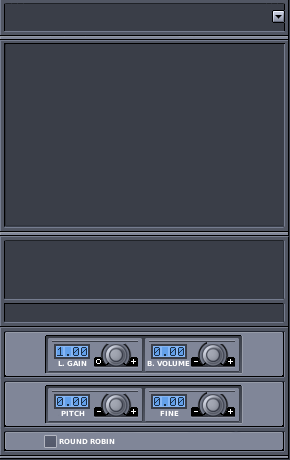
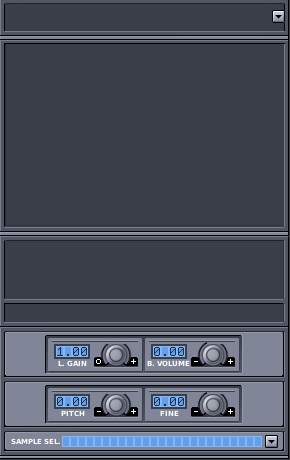
Sample Selection is now a enumeration

Changed region(s): [[0.031, 0.9435, 0.9621, 0.9739]]

diff --git a/src/core/src/sampler/sampler.cpp b/src/core/src/sampler/sampler.cpp
@@ -258,60 +258,63 @@ unsigned Sampler::__render_note( Note* pNote, unsigned nBufferSize, Song* pSong 
 
         // scelgo il sample da usare in base alla velocity
         Sample *pSample = NULL;
-		if( !pInstr->is_round_robin() ) {
-			for ( unsigned nLayer = 0; nLayer < MAX_LAYERS; ++nLayer ) {
-				InstrumentLayer *pLayer = pCompo->get_layer( nLayer );
-				if ( pLayer == NULL ) continue;
+		switch ( pInstr->sample_selection_alg() ) {
+			case Instrument::VELOCITY:
+				for ( unsigned nLayer = 0; nLayer < MAX_LAYERS; ++nLayer ) {
+					InstrumentLayer *pLayer = pCompo->get_layer( nLayer );
+					if ( pLayer == NULL ) continue;
 
-				if ( ( pNote->get_velocity() >= pLayer->get_start_velocity() ) && ( pNote->get_velocity() <= pLayer->get_end_velocity() ) ) {
+					if ( ( pNote->get_velocity() >= pLayer->get_start_velocity() ) && ( pNote->get_velocity() <= pLayer->get_end_velocity() ) ) {
+						pSample = pLayer->get_sample();
+						fLayerGain = pLayer->get_gain();
+						fLayerPitch = pLayer->get_pitch();
+						break;
+					}
+				}
+				break;
+
+			case Instrument::RANDOM:
+				if( pNote->get_sample_selected( pCompo->get_drumkit_componentID() ) != -1 ) {
+					InstrumentLayer *pLayer = pCompo->get_layer( pNote->get_sample_selected( pCompo->get_drumkit_componentID() ) );
+
 					pSample = pLayer->get_sample();
 					fLayerGain = pLayer->get_gain();
 					fLayerPitch = pLayer->get_pitch();
-					break;
 				}
-			}
-        }
-		else {
-			if( pNote->get_sample_selected( pCompo->get_drumkit_componentID() ) != -1 ) {
-				InstrumentLayer *pLayer = pCompo->get_layer( pNote->get_sample_selected( pCompo->get_drumkit_componentID() ) );
-
-				pSample = pLayer->get_sample();
-				fLayerGain = pLayer->get_gain();
-				fLayerPitch = pLayer->get_pitch();
-			}
-			else {
-				if( p_alreadySelectedSample != -1 ) {
-					InstrumentLayer *pLayer = pCompo->get_layer( pNote->get_sample_selected( pCompo->get_drumkit_componentID() ) );
-					if ( pLayer != NULL ) {
-						pSample = pLayer->get_sample();
-						fLayerGain = pLayer->get_gain();
-						fLayerPitch = pLayer->get_pitch();
-					}
-				}
-				if( !pSample ) {
-					int __possibleIndex[MAX_LAYERS];
-					int p_foundSamples = 0;
-					for ( unsigned nLayer = 0; nLayer < MAX_LAYERS; ++nLayer ) {
-						InstrumentLayer *pLayer = pCompo->get_layer( nLayer );
-						if ( pLayer == NULL ) continue;
-
-						if ( ( pNote->get_velocity() >= pLayer->get_start_velocity() ) && ( pNote->get_velocity() <= pLayer->get_end_velocity() ) ) {
-							__possibleIndex[p_foundSamples] = nLayer;
-							p_foundSamples++;
+				else {
+					if( p_alreadySelectedSample != -1 ) {
+						InstrumentLayer *pLayer = pCompo->get_layer( pNote->get_sample_selected( pCompo->get_drumkit_componentID() ) );
+						if ( pLayer != NULL ) {
+							pSample = pLayer->get_sample();
+							fLayerGain = pLayer->get_gain();
+							fLayerPitch = pLayer->get_pitch();
 						}
 					}
+					if( !pSample ) {
+						int __possibleIndex[MAX_LAYERS];
+						int p_foundSamples = 0;
+						for ( unsigned nLayer = 0; nLayer < MAX_LAYERS; ++nLayer ) {
+							InstrumentLayer *pLayer = pCompo->get_layer( nLayer );
+							if ( pLayer == NULL ) continue;
 
-					if( p_foundSamples > 0 ) {
-						p_alreadySelectedSample = rand() % p_foundSamples;
-						pNote->update_sample_selected( pCompo->get_drumkit_componentID(), p_alreadySelectedSample );
-						InstrumentLayer *pLayer = pCompo->get_layer( p_alreadySelectedSample );
+							if ( ( pNote->get_velocity() >= pLayer->get_start_velocity() ) && ( pNote->get_velocity() <= pLayer->get_end_velocity() ) ) {
+								__possibleIndex[p_foundSamples] = nLayer;
+								p_foundSamples++;
+							}
+						}
 
-						pSample = pLayer->get_sample();
-						fLayerGain = pLayer->get_gain();
-						fLayerPitch = pLayer->get_pitch();
+						if( p_foundSamples > 0 ) {
+							p_alreadySelectedSample = rand() % p_foundSamples;
+							pNote->update_sample_selected( pCompo->get_drumkit_componentID(), p_alreadySelectedSample );
+							InstrumentLayer *pLayer = pCompo->get_layer( p_alreadySelectedSample );
+
+							pSample = pLayer->get_sample();
+							fLayerGain = pLayer->get_gain();
+							fLayerPitch = pLayer->get_pitch();
+						}
 					}
 				}
-			}
+				break;
 		}
         if ( !pSample ) {
             QString dummy = QString( "NULL sample for instrument %1. Note velocity: %2" ).arg( pInstr->get_name() ).arg( pNote->get_velocity() );

diff --git a/src/core/src/basics/instrument.cpp b/src/core/src/basics/instrument.cpp
@@ -60,7 +60,7 @@ Instrument::Instrument( const int id, const QString& name, ADSR* adsr )
 	, __midi_out_note( 36 + id )
 	, __midi_out_channel( -1 )
 	, __stop_notes( false )
-	, __round_robin( false )
+	, __sample_selection_alg( VELOCITY )
 	, __active( true )
 	, __soloed( false )
 	, __muted( false )
@@ -94,7 +94,7 @@ Instrument::Instrument( Instrument* other )
 	, __midi_out_note( other->get_midi_out_note() )
 	, __midi_out_channel( other->get_midi_out_channel() )
 	, __stop_notes( other->is_stop_notes() )
-	, __round_robin( other->is_round_robin() )
+	, __sample_selection_alg( other->sample_selection_alg() )
 	, __active( other->is_active() )
 	, __soloed( other->is_soloed() )
 	, __muted( other->is_muted() )
@@ -190,7 +190,7 @@ void Instrument::load_from( Drumkit* drumkit, Instrument* instrument, bool is_li
 	this->set_midi_out_channel( instrument->get_midi_out_channel() );
 	this->set_midi_out_note( instrument->get_midi_out_note() );
 	this->set_stop_notes( instrument->is_stop_notes() );
-	this->set_round_robin( instrument->is_round_robin() );
+	this->set_sample_selection_alg( instrument->sample_selection_alg() );
 	this->set_hihat( instrument->is_hihat() );
 	this->set_lower_cc( instrument->get_lower_cc() );
 	this->set_higher_cc( instrument->get_higher_cc() );
@@ -235,7 +235,14 @@ Instrument* Instrument::load_from( XMLNode* node, const QString& dk_path, const 
 	instrument->set_midi_out_channel( node->read_int( "midiOutChannel", -1, true, false ) );
 	instrument->set_midi_out_note( node->read_int( "midiOutNote", instrument->__midi_out_note, true, false ) );
 	instrument->set_stop_notes( node->read_bool( "isStopNote", true ,false ) );
-	instrument->set_round_robin( node->read_bool( "isRoundRobin", false, true) );
+	QString p_read_sample_select_algo = node->read_string( "sampleSelectionAlgo", "VELOCITY" );
+	if ( p_read_sample_select_algo.compare("VELOCITY") == 0 )
+		instrument->set_sample_selection_alg( VELOCITY );
+	else if ( p_read_sample_select_algo.compare("ROUND_ROBIN") == 0 )
+			instrument->set_sample_selection_alg( ROUND_ROBIN );
+	else if ( p_read_sample_select_algo.compare("RANDOM") == 0 )
+			instrument->set_sample_selection_alg( RANDOM );
+
 	instrument->set_hihat( node->read_bool( "isHihat", false, true ) );
 	instrument->set_lower_cc( node->read_int( "lower_cc", 0, true ) );
 	instrument->set_higher_cc( node->read_int( "higher_cc", 127, true ) );
@@ -295,7 +302,18 @@ void Instrument::save_to( XMLNode* node )
 	instrument_node.write_int( "midiOutChannel", __midi_out_channel );
 	instrument_node.write_int( "midiOutNote", __midi_out_note );
 	instrument_node.write_bool( "isStopNote", __stop_notes );
-	instrument_node.write_bool( "isRoundRobin", __round_robin );
+	//instrument_node.write_bool( "isRoundRobin", __round_robin );
+	switch ( __sample_selection_alg ) {
+		case VELOCITY:
+			instrument_node.write_string( "sampleSelectionAlgo", "VELOCITY" );
+			break;
+		case RANDOM:
+			instrument_node.write_string( "sampleSelectionAlgo", "RANDOM" );
+			break;
+		case ROUND_ROBIN:
+			instrument_node.write_string( "sampleSelectionAlgo", "ROUND_ROBIN" );
+			break;
+	}
 	instrument_node.write_bool( "isHihat", __hihat );
 	instrument_node.write_int( "lower_cc", __lower_cc );
 	instrument_node.write_int( "higher_cc", __higher_cc );

diff --git a/src/gui/src/InstrumentEditor/InstrumentEditor.cpp b/src/gui/src/InstrumentEditor/InstrumentEditor.cpp
@@ -45,6 +45,7 @@ using namespace H2Core;
 #include "../widgets/ClickableLabel.h"
 #include "../widgets/Button.h"
 #include "../widgets/LCD.h"
+#include "../widgets/LCDCombo.h"
 #include "../widgets/Fader.h"
 #include "InstrumentEditor.h"
 #include "WaveDisplay.h"
@@ -417,10 +418,16 @@ InstrumentEditor::InstrumentEditor( QWidget* pParent )
 	m_pLayerPitchFineLCD->move( 151, 391 + 3 );
 	m_pLayerPitchFineRotary->move( 199, 391 );
 
-	m_pRoundRobinCheckBox = new QCheckBox ( trUtf8( "" ), m_pLayerProp );
-	m_pRoundRobinCheckBox->move( 44, 435 );
-	m_pRoundRobinCheckBox->setToolTip( trUtf8( "Use Round Robin for same velocity layers" ) );
-	connect( m_pRoundRobinCheckBox, SIGNAL( toggled( bool ) ), this, SLOT( pRoundRobinCheckBoxClicked( bool ) ) );
+	m_sampleSelectionAlg = new LCDCombo(m_pLayerProp, 25);
+	m_sampleSelectionAlg->move( 60, 434 );
+	m_sampleSelectionAlg->setToolTip( trUtf8("Select pattern size") );
+
+	m_sampleSelectionAlg->addItem( QString( "First in Velocity" ) );
+	m_sampleSelectionAlg->addItem( QString( "Round Robin" ) );
+	m_sampleSelectionAlg->addItem( QString( "Random" ) );
+
+	m_sampleSelectionAlg->update();
+	connect( m_sampleSelectionAlg, SIGNAL( valueChanged( QString ) ), this, SLOT( pSampleSelectionChanged( QString ) ) );
 
 	//~ Layer properties
 
@@ -554,7 +561,22 @@ void InstrumentEditor::selectedInstrumentChangedEvent()
 			m_pMidiOutNoteLCD->setText( sMidiOutNote );
 		}
 
-		m_pRoundRobinCheckBox->setChecked( m_pInstrument->is_round_robin() );
+		/*
+		 * m_sampleSelectionAlg->addItem( QString( "First in Velocity" ) );
+		 * m_sampleSelectionAlg->addItem( QString( "Round Robin" ) );
+		 * m_sampleSelectionAlg->addItem( QString( "Random" ) );
+		 **/
+		switch ( m_pInstrument->sample_selection_alg() ) {
+			case Instrument::VELOCITY:
+				m_sampleSelectionAlg->set_text( "First in Velocity" );
+				break;
+			case Instrument::RANDOM:
+				m_sampleSelectionAlg->set_text( "Random" );
+				break;
+			case Instrument::ROUND_ROBIN:
+				m_sampleSelectionAlg->set_text( "Round Robin" );
+				break;
+		}
 
 		itemsCompo.clear();
 		std::vector<DrumkitComponent*>* compoList = Hydrogen::get_instance()->getSong()->get_components();
@@ -1280,11 +1302,23 @@ void InstrumentEditor::rubberbandbpmchangeEvent()
 
 }
 
-void InstrumentEditor::pRoundRobinCheckBoxClicked( bool on )
+void InstrumentEditor::pSampleSelectionChanged( QString selected )
 {
+	/*
+		"First in Velocity"
+		"Round Robin"
+		"Random"
+	*/
+
 	assert( m_pInstrument );
 
-	m_pInstrument->set_round_robin( on );
+	if ( selected.compare("First in Velocity") == 0 )
+		m_pInstrument->set_sample_selection_alg( Instrument::VELOCITY );
+	else if ( selected.compare("Round Robin") == 0 )
+		m_pInstrument->set_sample_selection_alg( Instrument::ROUND_ROBIN );
+	else if ( selected.compare("Random") == 0)
+		m_pInstrument->set_sample_selection_alg( Instrument::RANDOM );
+
 	selectedInstrumentChangedEvent();	// force an update
 }
 

diff --git a/src/core/include/hydrogen/basics/instrument.h b/src/core/include/hydrogen/basics/instrument.h
@@ -49,6 +49,12 @@ class Instrument : public H2Core::Object
 {
 		H2_OBJECT
 	public:
+		enum SampleSelectionAlgo {
+			VELOCITY,
+			RANDOM,
+			ROUND_ROBIN
+		};
+
 		/**
 		 * constructor
 		 * \param id the id of this instrument
@@ -220,8 +226,8 @@ class Instrument : public H2Core::Object
 		/** get the stop notes of the instrument */
 		bool is_stop_notes() const;
 
-		void set_round_robin( bool round_robin );
-		bool is_round_robin() const;
+		void set_sample_selection_alg( SampleSelectionAlgo selected_algo);
+		SampleSelectionAlgo sample_selection_alg() const;
 
 		void set_hihat( bool ishihat );
 		bool is_hihat() const;
@@ -260,7 +266,7 @@ class Instrument : public H2Core::Object
 		int __midi_out_note;		            ///< midi out note
 		int __midi_out_channel;		            ///< midi out channel
 		bool __stop_notes;		                ///< will the note automatically generate a note off after beeing on
-		bool __round_robin;						///< layers sharing the same velocity range will use round robin
+		SampleSelectionAlgo __sample_selection_alg;	///< how Hydrogen will chose the sample to use
 		bool __active;			                ///< is the instrument active?
 		bool __soloed;                          ///< is the instrument in solo mode?
 		bool __muted;                           ///< is the instrument muted?
@@ -509,14 +515,14 @@ inline bool Instrument::is_stop_notes() const
 	return __stop_notes;
 }
 
-inline void Instrument::set_round_robin( bool round_robin )
+inline void Instrument::set_sample_selection_alg( SampleSelectionAlgo selected_algo)
 {
-	__round_robin = round_robin;
+	__sample_selection_alg = selected_algo;
 }
 
-inline bool Instrument::is_round_robin() const
+inline Instrument::SampleSelectionAlgo Instrument::sample_selection_alg() const
 {
-	return __round_robin;
+	return __sample_selection_alg;
 }
 
 inline void Instrument::set_hihat( bool ishihat )

diff --git a/src/core/src/basics/song.cpp b/src/core/src/basics/song.cpp
@@ -502,7 +502,9 @@ Song* SongReader::readSong( const QString& filename )
 			QString sMidiOutNote = LocalFileMng::readXmlString( instrumentNode, "midiOutNote", "60", false, false );
 			int nMuteGroup = sMuteGroup.toInt();
 			bool isStopNote = LocalFileMng::readXmlBool( instrumentNode, "isStopNote", false );
-			bool isRoundRobin = LocalFileMng::readXmlBool( instrumentNode, "isRoundRobin", false );
+			//bool isRoundRobin = LocalFileMng::readXmlBool( instrumentNode, "isRoundRobin", false );
+			QString p_read_sample_select_algo = LocalFileMng::readXmlString( instrumentNode, "sampleSelectionAlgo", "VELOCITY" );
+
 			int nMidiOutChannel = sMidiOutChannel.toInt();
 			int nMidiOutNote = sMidiOutNote.toInt();
 
@@ -531,7 +533,12 @@ Song* SongReader::readSong( const QString& filename )
 			pInstrument->set_gain( fGain );
 			pInstrument->set_mute_group( nMuteGroup );
 			pInstrument->set_stop_notes( isStopNote );
-			pInstrument->set_round_robin( isRoundRobin );
+			if ( p_read_sample_select_algo.compare("VELOCITY") == 0 )
+				pInstrument->set_sample_selection_alg( Instrument::VELOCITY );
+			else if ( p_read_sample_select_algo.compare("ROUND_ROBIN") == 0 )
+				pInstrument->set_sample_selection_alg( Instrument::ROUND_ROBIN );
+			else if ( p_read_sample_select_algo.compare("RANDOM") == 0 )
+				pInstrument->set_sample_selection_alg( Instrument::RANDOM );
 			pInstrument->set_midi_out_channel( nMidiOutChannel );
 			pInstrument->set_midi_out_note( nMidiOutNote );
 

diff --git a/src/core/src/helpers/legacy.cpp b/src/core/src/helpers/legacy.cpp
@@ -84,7 +84,14 @@ Drumkit* Legacy::load_drumkit( const QString& dk_path ) {
 				instrument->set_midi_out_channel( instrument_node.read_int( "midiOutChannel", -1, true, false ) );
 				instrument->set_midi_out_note( instrument_node.read_int( "midiOutNote", MIDI_MIDDLE_C, true, false ) );
 				instrument->set_stop_notes( instrument_node.read_bool( "isStopNote", true ,false ) );
-				instrument->set_round_robin( instrument_node.read_bool( "isRoundRobin", false, true ) );
+				//instrument->set_round_robin( instrument_node.read_bool( "isRoundRobin", false, true ) );
+				QString p_read_sample_select_algo = instrument_node.read_string( "sampleSelectionAlgo", "VELOCITY" );
+				if ( p_read_sample_select_algo.compare("VELOCITY") == 0)
+					instrument->set_sample_selection_alg( Instrument::VELOCITY );
+				else if ( p_read_sample_select_algo.compare("ROUND_ROBIN") == 0 )
+					instrument->set_sample_selection_alg( Instrument::ROUND_ROBIN );
+				else if ( p_read_sample_select_algo.compare("RANDOM") == 0 )
+					instrument->set_sample_selection_alg( Instrument::RANDOM );
 				instrument->set_hihat( instrument_node.read_bool( "isHihat", false, true ) );
                 instrument->set_lower_cc( instrument_node.read_int( "lower_cc", 0, true ) );
                 instrument->set_higher_cc( instrument_node.read_int( "higher_cc", 127, true ) );

diff --git a/src/gui/src/InstrumentEditor/InstrumentEditor.h b/src/gui/src/InstrumentEditor/InstrumentEditor.h
@@ -38,6 +38,7 @@ class Button;
 class ToggleButton;
 class ClickableLabel;
 class Rotary;
+class LCDCombo;
 class WaveDisplay;
 class LayerPreview;
 
@@ -74,8 +75,6 @@ class InstrumentEditor : public QWidget, public H2Core::Object, public EventList
 		void compoChangeAddDelete(QAction*);
 		void onClick(Button*);
 
-		void pRoundRobinCheckBoxClicked( bool on );
-
 		void muteGroupBtnClicked(Button *pRef);
 		void onIsStopNoteCheckBoxClicked( bool on );
 		void midiOutChannelBtnClicked(Button *pRef);
@@ -84,6 +83,8 @@ class InstrumentEditor : public QWidget, public H2Core::Object, public EventList
 		void pIsHihatCheckBoxClicked( bool on);
 		void hihatMinRangeBtnClicked(Button *pRef);
 		void hihatMaxRangeBtnClicked(Button *pRef);
+
+		void pSampleSelectionChanged( QString );
 
 	private:
 		H2Core::Instrument *m_pInstrument;
@@ -160,7 +161,8 @@ class InstrumentEditor : public QWidget, public H2Core::Object, public EventList
 		LCDDisplay *m_pLayerPitchCoarseLCD;
 		LCDDisplay *m_pLayerPitchFineLCD;
 
-		QCheckBox *m_pRoundRobinCheckBox;
+		//LCDCombo *__pattern_size_combo;
+		LCDCombo *m_sampleSelectionAlg;
 
 		WaveDisplay *m_pWaveDisplay;
 

diff --git a/src/core/src/local_file_mgr.cpp b/src/core/src/local_file_mgr.cpp
@@ -1314,7 +1314,18 @@ int SongWriter::writeSong( Song *song, const QString& filename )
 
 		LocalFileMng::writeXmlString( instrumentNode, "muteGroup", QString("%1").arg( instr->get_mute_group() ) );
 		LocalFileMng::writeXmlBool( instrumentNode, "isStopNote", instr->is_stop_notes() );
-		LocalFileMng::writeXmlBool( instrumentNode, "isRoundRobin", instr->is_round_robin() );
+		//LocalFileMng::writeXmlBool( instrumentNode, "isRoundRobin", instr->is_round_robin() );
+		switch ( instr->sample_selection_alg() ) {
+			case Instrument::VELOCITY:
+				LocalFileMng::writeXmlString( instrumentNode, "sampleSelectionAlgo", "VELOCITY" );
+				break;
+			case Instrument::RANDOM:
+				LocalFileMng::writeXmlString( instrumentNode, "sampleSelectionAlgo", "RANDOM" );
+				break;
+			case Instrument::ROUND_ROBIN:
+				LocalFileMng::writeXmlString( instrumentNode, "sampleSelectionAlgo", "ROUND_ROBIN" );
+				break;
+		}
 
 		LocalFileMng::writeXmlString( instrumentNode, "midiOutChannel", QString("%1").arg( instr->get_midi_out_channel() ) );
 		LocalFileMng::writeXmlString( instrumentNode, "midiOutNote", QString("%1").arg( instr->get_midi_out_note() ) );
